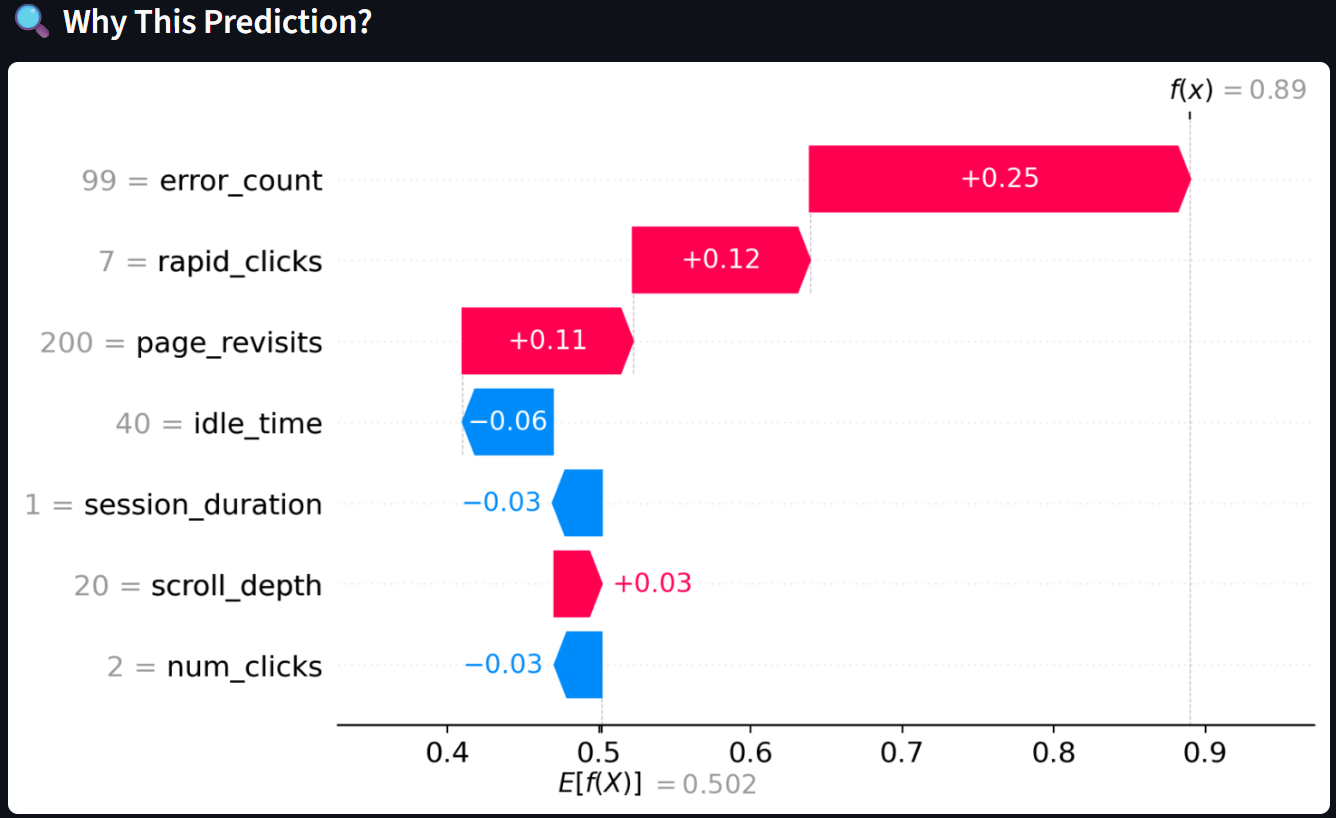
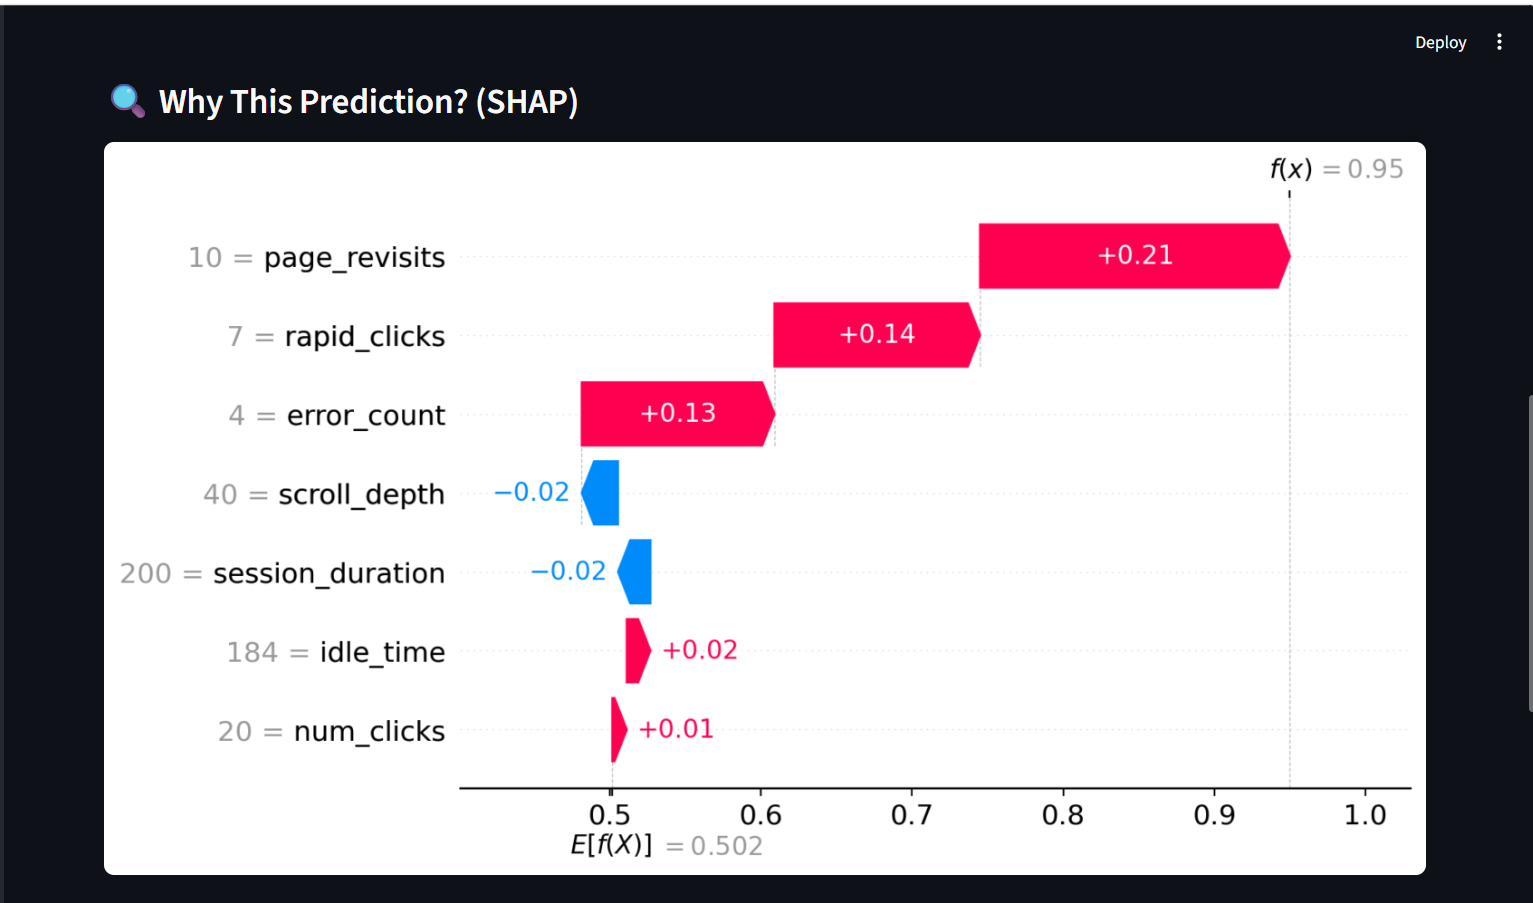
Enhanced dashboard UI and updated README visuals

diff --git a/dashboard/app.py b/dashboard/app.py
@@ -29,7 +29,19 @@ st.markdown("---")
 
 # Load Model + Feature Names
 
-model = joblib.load("models/frustration_model.pkl")
+import os
+
+BASE_DIR = os.path.dirname(os.path.abspath(__file__))
+
+model_path = os.path.join(
+    BASE_DIR,
+    "..",
+    "models",
+    "frustration_model.pkl"
+)
+
+model = joblib.load(model_path)
+
 feature_names = [
     "session_duration",
     "num_clicks",
@@ -54,7 +66,7 @@ session_duration = st.sidebar.slider("Session Duration (seconds)", 0, 1000, 200)
 num_clicks = st.sidebar.slider("Total Clicks", 0, 100, 20)
 scroll_depth = st.sidebar.slider("Scroll Depth (%)", 0, 100, 40)
 
-<<<<<<< HEAD
+
 # ----------------------------
 # Threshold Slider (NEW)
 # ----------------------------
@@ -69,9 +81,9 @@ threshold = st.sidebar.slider(
     help="Lower = catch more frustrated users (higher recall). Higher = only flag confident cases (higher precision)."
 )
 
+# 
 # ----------------------------
-=======
->>>>>>> c2ee2ac1565eae1c90fe79f8e628498f11d475d0
+
 # Prediction
 
 st.header("📊 Prediction Result")
@@ -91,7 +103,7 @@ if st.button("Predict Frustration"):
     input_data = pd.DataFrame([input_values], columns=feature_names)
     probability = model.predict_proba(input_data)[0][1]
 
-<<<<<<< HEAD
+
     # Use threshold instead of default 0.5
     prediction = int(probability >= threshold)
 
@@ -149,10 +161,8 @@ if st.button("Predict Frustration"):
     # Plain English Reason (NEW)
     st.markdown("---")
     st.subheader("💬 What's driving this?")
-=======
-    # Result UI
 
->>>>>>> c2ee2ac1565eae1c90fe79f8e628498f11d475d0
+
     if prediction == 1:
         st.info(f"⚠️ This user's frustration is mainly driven by **{reason}**.")
     else:
@@ -160,23 +170,16 @@ if st.button("Predict Frustration"):
 
     st.markdown("---")
 
-<<<<<<< HEAD
+
     # ----------------------------
     # SHAP Explanation (existing)
     # ----------------------------
     st.subheader("🔍 Why This Prediction? (SHAP)")
-=======
-    # SHAP Explanation
-
-    st.subheader("🔍 Why This Prediction?")
-
-    shap_values = explainer(input_data)
->>>>>>> c2ee2ac1565eae1c90fe79f8e628498f11d475d0
 
     fig, ax = plt.subplots()
     shap.plots.waterfall(shap_values[0, :, 1], show=False)
     st.pyplot(fig)
-<<<<<<< HEAD
+
 
     st.markdown("---")
 
@@ -200,5 +203,4 @@ if st.button("Predict Frustration"):
         "RF chosen as primary for its per-user SHAP explainability — "
         "more suitable for real-world non-linear behavioral patterns."
     )
-=======
->>>>>>> c2ee2ac1565eae1c90fe79f8e628498f11d475d0
+